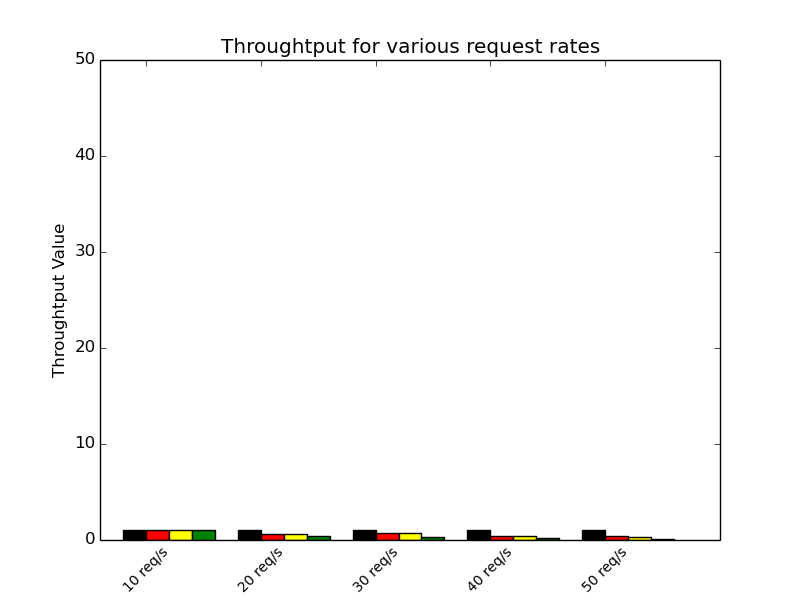
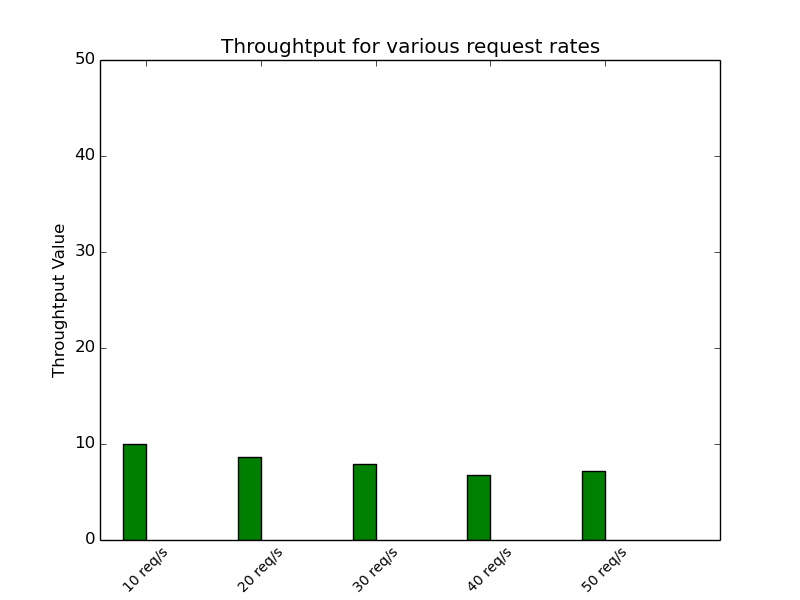
Throughput graph added

Changed region(s): [[0.125, 0.72, 0.4062, 0.9], [0.4375, 0.75, 0.6875, 0.9], [0.7188, 0.78, 0.8438, 0.9]]

diff --git a/Version2/scripts/test.py b/Version2/scripts/test.py
@@ -292,42 +292,44 @@ def make_plot(location):
   width = 0.2                      # the width of the bars
 
   # the bars
-  rects1 = ax.bar(ind, first_request_arr, width,
-                  color='black',
-                  error_kw=dict(elinewidth=2,ecolor='black'))
+  # rects1 = ax.bar(ind, first_request_arr, width,
+  #                 color='black',
+  #                 error_kw=dict(elinewidth=2,ecolor='black'))
 
-  rects2 = ax.bar(ind+width, unauthorized_status_arr, width,
-                      color='red',
-                      error_kw=dict(elinewidth=2,ecolor='red'))
+  # rects2 = ax.bar(ind+width, unauthorized_status_arr, width,
+  #                     color='red',
+  #                     error_kw=dict(elinewidth=2,ecolor='red'))
 
-  rects3 = ax.bar(ind+2*width, second_request_arr, width,
-                  color='yellow',
-                  error_kw=dict(elinewidth=2,ecolor='yellow'))
+  # rects3 = ax.bar(ind+2*width, second_request_arr, width,
+  #                 color='yellow',
+  #                 error_kw=dict(elinewidth=2,ecolor='yellow'))
 
-  rects4 = ax.bar(ind+3*width, ok_status_arr, width,
-                      color='green',
-                      error_kw=dict(elinewidth=2,ecolor='green'))
-
-  # rects4 = ax.bar(ind, throughput_arr, width,
+  # rects4 = ax.bar(ind+3*width, ok_status_arr, width,
   #                     color='green',
   #                     error_kw=dict(elinewidth=2,ecolor='green'))
 
+  rects4 = ax.bar(ind, throughput_arr, width,
+                      color='green',
+                      error_kw=dict(elinewidth=2,ecolor='green'))
+
   # axes and labels
   ax.set_xlim(-width,len(ind)+width)
-  ax.set_ylim(0,2)
+  ax.set_ylim(0,50)
   # ax.set_ylabel('Ratio')
   # ax.set_title('Communication between Bono and Sprout')
   
-  ax.set_ylabel('Ratio')
-  ax.set_title('Communication between Sprout and Homestead')
-  
+  # ax.set_ylabel('Ratio')
+  # ax.set_title('Communication between Sprout and Homestead')
+  ax.set_ylabel('Throughtput Value')
+  ax.set_title('Throughtput for various request rates')
+
   xTickMarks = [str(i*10)+' req/s' for i in range(1,6)]
   ax.set_xticks(ind+width)
   xtickNames = ax.set_xticklabels(xTickMarks)
   plt.setp(xtickNames, rotation=45, fontsize=10)
 
   ## add a legend
-  ax.legend( (rects1[0], rects2[0],rects3[0], rects4[0]), ('Initial Request', 'Unauthorized response', 'Re-request', 'Ok Status') )
+  # ax.legend( (rects1[0], rects2[0],rects3[0], rects4[0]), ('Initial Request', 'Unauthorized response', 'Re-request', 'Ok Status') )
 
   # plt.show()
   pylab.savefig(location)
@@ -628,9 +630,9 @@ def print_maps(x):
 # main(str(sys.argv[1]),str(sys.argv[2]))
 # plot_bono()
 # plot_sprout()
-plot_hs()
+# plot_hs()
 # print_result()
 # print_timeline()
 # plot_graphs()
-# plot_throughput()
+plot_throughput()
 # print_maps(int(sys.argv[1]))
